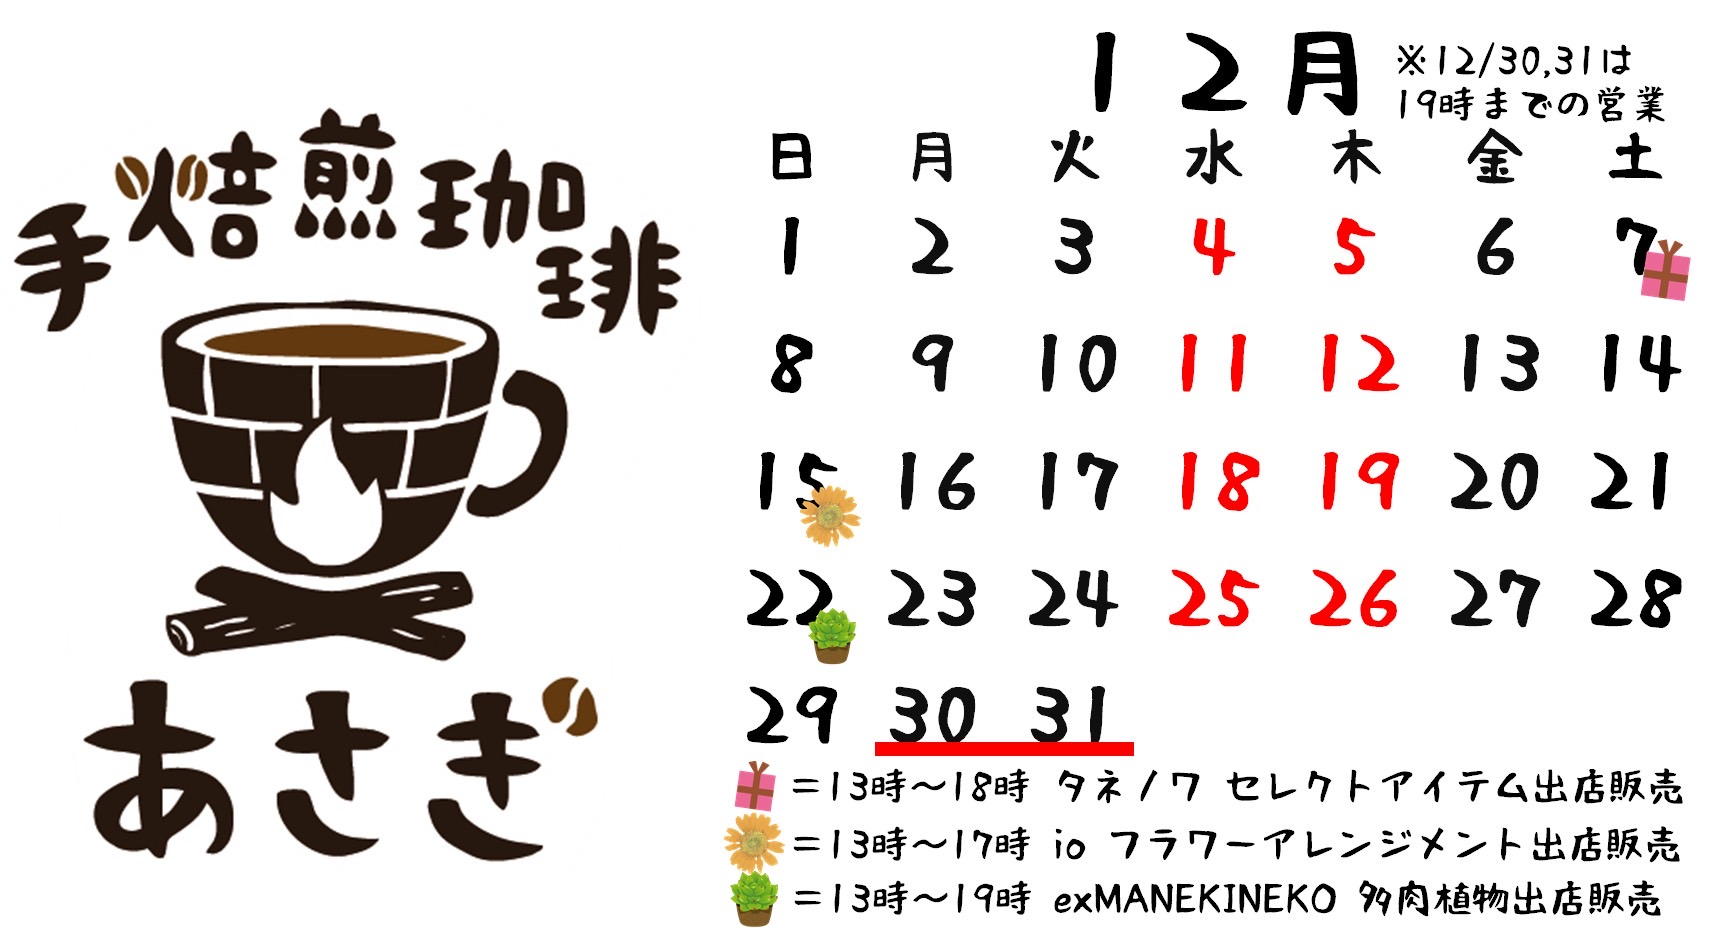
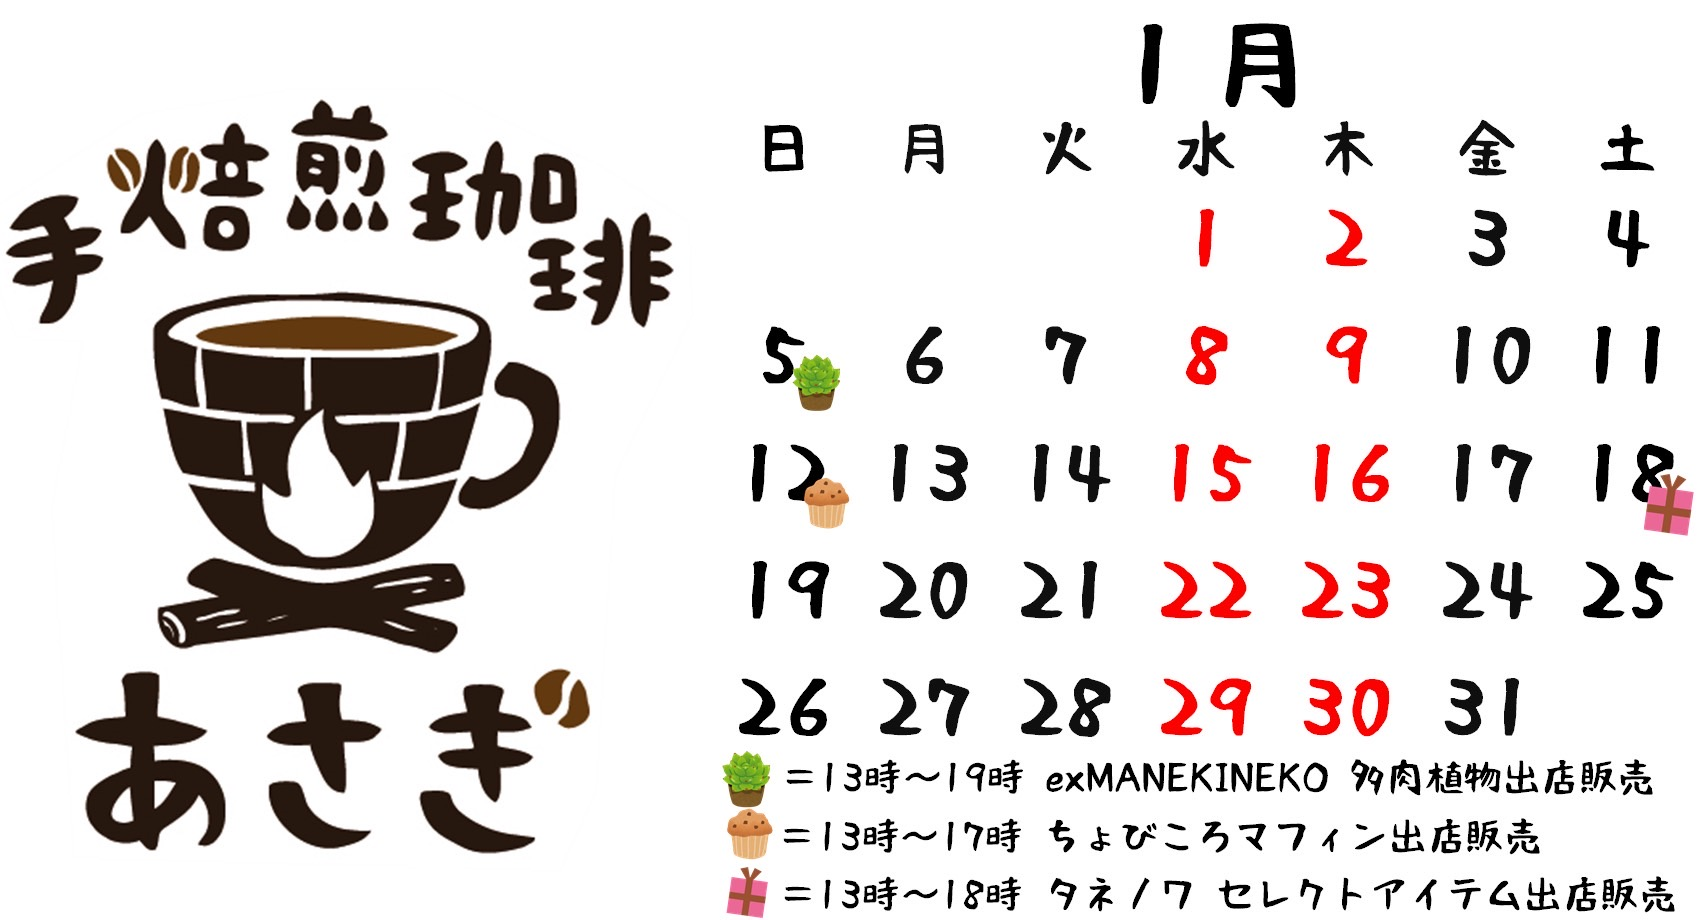
2501

diff --git a/bean.html b/bean.html
@@ -100,6 +100,13 @@
         <!-- 最新のお知らせ -->
         <div class="event">
             <div class="eventbox">
+                <a href="img/seasonal3.jpg" data-lightbox="group">
+                    <img src="img/seasonal3.jpg" width="100%">
+                </a>
+            </div>
+        </div>
+        <div class="event">
+            <div class="eventbox">
                 <a href="img/seasonal.jpg" data-lightbox="group">
                     <img src="img/seasonal.jpg" width="100%">
                 </a>
